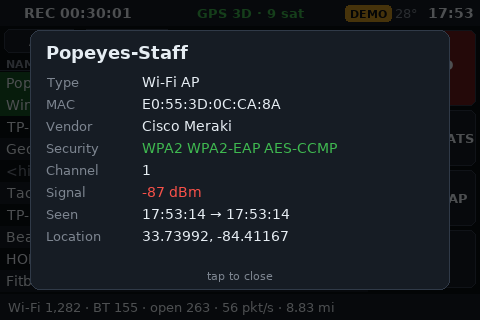
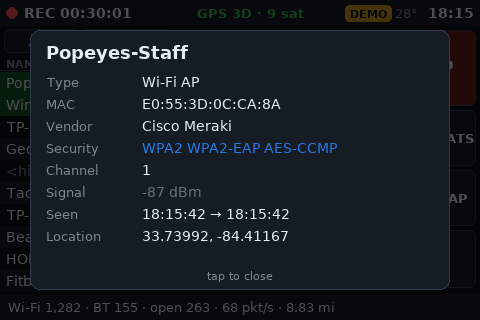
add venelation to case and make colors more colorblind-friendly

diff --git a/wardrive/views/map.py b/wardrive/views/map.py
@@ -9,7 +9,7 @@ import pygame
 
 from .. import fmt, theme
 from ..mapdata import find_map, lonlat_to_world, meters_per_pixel, world_to_lonlat
-from ..maprender import DotLayer, MapRenderer, Viewport
+from ..maprender import MARKER_LEGEND, DotLayer, MapRenderer, Viewport, draw_marker
 from ..touch import TouchEvent
 from ..widgets import SLOP, Button
 from . import CONTENT, View
@@ -56,7 +56,10 @@ class MapView(View):
             Button((right, AREA.y + 6 + BTN + 6, BTN, BTN), "−", lambda: self.zoom_by(-1), size=22),
             Button((right, AREA.y + 6 + 2 * (BTN + 6), BTN, BTN), "◎", self.recenter, size=18,
                    active=lambda: self.follow),
+            Button((right, AREA.y + 6 + 3 * (BTN + 6), BTN, 28), "KEY", self.toggle_key, size=11,
+                   active=lambda: self.show_key),
         ]
+        self.show_key = False
 
     # --- modes -------------------------------------------------------------------
 
@@ -66,6 +69,9 @@ class MapView(View):
         self.follow = False
         self._centered_once = False
         self._start_load()
+
+    def toggle_key(self) -> None:
+        self.show_key = not self.show_key
 
     def toggle_mode(self) -> None:
         if self.mode == "live":
@@ -207,14 +213,7 @@ class MapView(View):
         sx, sy = self.vp.to_screen(*lonlat_to_world(g.lon, g.lat))
         center = (int(sx), int(sy))
         if g.has_fix:
-            if g.speed > 1:
-                a = math.radians(g.track)
-                tip = (sx + 13 * math.sin(a), sy - 13 * math.cos(a))
-                left = (sx + 6 * math.sin(a - 2.4), sy - 6 * math.cos(a - 2.4))
-                right = (sx + 6 * math.sin(a + 2.4), sy - 6 * math.cos(a + 2.4))
-                pygame.draw.polygon(surf, theme.BLUE, [tip, left, right])
-            pygame.draw.circle(surf, (255, 255, 255), center, 7)
-            pygame.draw.circle(surf, theme.BLUE, center, 5)
+            draw_position(surf, center, g.track if g.speed > 1 else None)
         else:
             pygame.draw.circle(surf, theme.DIM, center, 6, 2)
 
@@ -243,7 +242,40 @@ class MapView(View):
         theme.blit_text(surf, label, (x0, y0 - 3), 10, theme.TEXT, anchor="bottomleft")
         if self.map is not None:
             theme.blit_text(surf, self.map.attribution, (AREA.right - 4, AREA.bottom - 2), 9, theme.DIM, anchor="bottomright")
-        theme.blit_text(surf, f"z{self.vp.zoom}", (AREA.right - BTN - 6 + BTN // 2, AREA.y + 6 + 3 * (BTN + 6) + 2), 10, theme.DIM, anchor="midtop")
+        theme.blit_text(surf, f"z{self.vp.zoom}", (AREA.right - BTN - 6 + BTN // 2, AREA.y + 6 + 3 * (BTN + 6) + 32), 10, theme.DIM, anchor="midtop")
+        if self.show_key:
+            self._draw_key(surf)
+
+    def _draw_key(self, surf: pygame.Surface) -> None:
+        rows = [*MARKER_LEGEND, ("YOU", "You")]
+        box = pygame.Rect(AREA.x + 6, 0, 104, 10 + 17 * len(rows))
+        box.bottom = AREA.bottom - 22
+        pygame.draw.rect(surf, (0, 0, 0), box, border_radius=6)
+        pygame.draw.rect(surf, theme.BORDER, box, 1, border_radius=6)
+        for i, (kind, label) in enumerate(rows):
+            cy = box.y + 13 + 17 * i
+            if kind == "YOU":
+                draw_position(surf, (box.x + 14, cy), None, small=True)
+            else:
+                draw_marker(surf, kind, (box.x + 14, cy), 5)
+            theme.blit_text(surf, label, (box.x + 28, cy), 12, theme.TEXT, anchor="midleft")
+
+
+def draw_position(surf: pygame.Surface, center: tuple[int, int], heading: float | None, small: bool = False) -> None:
+    """Your position: a white and black target, with a heading arrow when moving."""
+    x, y = center
+    if heading is not None:
+        a = math.radians(heading)
+        tip = (x + 15 * math.sin(a), y - 15 * math.cos(a))
+        left = (x + 7 * math.sin(a - 2.5), y - 7 * math.cos(a - 2.5))
+        right = (x + 7 * math.sin(a + 2.5), y - 7 * math.cos(a + 2.5))
+        pygame.draw.polygon(surf, (0, 0, 0), [tip, left, right])
+        pygame.draw.polygon(surf, (255, 255, 255), [tip, left, right], 2)
+    r = 6 if small else 8
+    pygame.draw.circle(surf, (0, 0, 0), center, r + 1)
+    pygame.draw.circle(surf, (255, 255, 255), center, r)
+    pygame.draw.circle(surf, (0, 0, 0), center, r - 3)
+    pygame.draw.circle(surf, (255, 255, 255), center, max(1, r - 6))
 
 
 _NICE_DISTANCES = [10, 20, 50, 100, 200, 500, 1000, 2000, 5000, 10000, 20000, 50000, 100000]

diff --git a/case/scripts/fusion_build.py b/case/scripts/fusion_build.py
@@ -204,6 +204,10 @@ PARAMS = [
     ("stylus_tube_l", "22 mm", "mm", "tube length back from the bezel front face"),
     ("stylus_x", "-(stylus_bore / 2 + stylus_wall + 0.8 mm)", "mm", "tube centre, case x: just outside the left wall, 0.8mm clear"),
     ("stylus_y", "case_out_w - 10 mm", "mm", "tube centre, case y: top-left, below the corner ear"),
+    ("vent_w", "3 mm", "mm", "vent slot width (vertical slots: bridges only this when printing)"),
+    ("vent_rib", "3 mm", "mm", "minimum solid rib between slots and around any existing opening"),
+    ("vent_band", "2 mm", "mm", "solid band kept above the floor and below the rim"),
+    ("vent_corner", "8 mm", "mm", "solid wall kept at each corner (ears carry the bezel screws)"),
 ]
 
 HELPERS = r'''
@@ -483,8 +487,60 @@ sk=newsk()
 for kx in (kxb-P('kn_sx1'), kxb-P('kn_sx2')):
     for yk in (kyc-ksy, kyc+ksy): circ(sk,kx,yk,P('m3_tap'))
 cut(N,sk,0,P('case_tap_d'))
+# ---- Ventilation: vertical slots through the walls at the height of the hot gap
+# between the Pi and the LCD. Vertical so each slot only bridges its own width when
+# the case prints back-down. Enforced: ribs >= vent_rib, solid bands >= vent_band
+# at floor and rim, >= vent_corner at corners, >= vent_rib from every opening.
+# Right wall skipped (USB2 stack + ethernet jack sit against it); floor untouched
+# (it carries the mount load through the knuckle).
+vw=P('vent_w'); vrb=P('vent_rib'); vbd=P('vent_band'); vcn=P('vent_corner'); vpitch=vw+vrb
+def vslots(lo,hi):
+    n=int(math.floor((hi-lo+vrb)/vpitch))
+    if n<=0: return []
+    span=n*vw+(n-1)*vrb; s0=lo+(hi-lo-span)/2.0+vw/2.0
+    return [s0+k*vpitch for k in range(n)]
+def vfree(lo,hi,blocked):
+    segs=[(lo,hi)]
+    for b0,b1 in sorted(blocked):
+        nxt=[]
+        for s0,s1 in segs:
+            if b1<=s0 or b0>=s1: nxt.append((s0,s1)); continue
+            if b0>s0: nxt.append((s0,b0))
+            if b1<s1: nxt.append((b1,s1))
+        segs=nxt
+    return [(a,b) for a,b in segs if b-a>=vw]
+vzlo=FT+vbd; vzhi=RH-vbd
+if vzhi-vzlo < 8: raise RuntimeError('vent slots would be too short')
+vents={'top':0,'bottom':0,'left':0}; varea=0.0
+# top wall (GPIO edge): only the corners to avoid
+for a,b in vfree(vcn,OL-vcn,[]):
+    for sc in vslots(a,b):
+        sk=newsk(); rect(sk,sc-vw/2,OW-W-1,sc+vw/2,OW+1); cut(N,sk,vzlo,vzhi-vzlo)
+        vents['top']+=1; varea+=vw*(vzhi-vzlo)
+# bottom wall (power edge): clear of the USB-C hole, both flex-tab notches and the hood
+ucx=PX+P('usbc_ctr'); ucw=max(P('usbc_w'),P('usbc_plug_w'))+2*FP
+hd0=PX+P('adp_a')-P('adp_clr')-W; hd1=PX+P('adp_b')+P('adp_clr')+W
+vblk=[(ucx-ucw/2-vrb,ucx+ucw/2+vrb),(hd0-vrb,hd1+vrb)]
+for key in ('btn_pwr_ctr','btn_bkl_ctr'):
+    bc_,tc_,n0_,n1_=tabgeom(key)
+    vblk.append((tc_-P('tab_w')/2-P('tab_slit')-vrb, tc_+P('tab_w')/2+P('tab_slit')+vrb))
+for a,b in vfree(vcn,OL-vcn,vblk):
+    for sc in vslots(a,b):
+        sk=newsk(); rect(sk,sc-vw/2,-1,sc+vw/2,W+1); cut(N,sk,vzlo,vzhi-vzlo)
+        vents['bottom']+=1; varea+=vw*(vzhi-vzlo)
+# left wall: clear of the LCD power notch and the stylus tube outside; above the SD slit
+vlcy=PY+P('lcd_usbc_ctr'); vlw=P('lcd_usbc_plug_w')+2*FP
+vsod=P('stylus_bore')+2*P('stylus_wall'); vsyc=P('stylus_y')
+vblk=[(vlcy-vlw/2-vrb,vlcy+vlw/2+vrb),(vsyc-vsod/2-vrb,vsyc+vsod/2+vrb)]
+vzlo_l=max(vzlo,(PCT-PT)+0.6+vbd)
+for a,b in vfree(vcn,OW-vcn,vblk):
+    for sc in vslots(a,b):
+        sk=newsk(); rect(sk,-1,sc-vw/2,W+1,sc+vw/2); cut(N,sk,vzlo_l,vzhi-vzlo_l)
+        vents['left']+=1; varea+=vw*(vzhi-vzlo_l)
+if sum(vents.values())==0: raise RuntimeError('no vent slots placed')
 place(N,0.0,0.0)
 r=report(N); r['ear_nut_d']=round(P('ear_nut_d'),2)
+r['vent_slots']=vents; r['vent_open_mm2']=round(varea)
 return r
 '''
 

diff --git a/wardrive/maprender.py b/wardrive/maprender.py
@@ -409,6 +409,42 @@ def _longest_visible_segment(pts: np.ndarray, w: int, h: int, margin: int = 6):
 # --- network dots ------------------------------------------------------------------------
 
 
+# Each security type has a shape as well as a color, so dots can be told apart without
+# relying on color vision.
+MARKER_SHAPES = {"OPEN": "triangle", "WEP": "diamond", "WPA": "diamond", "WPA2": "circle", "WPA3": "square", "BT": "plus"}
+MARKER_LEGEND = [("OPEN", "Open"), ("WEP", "WEP / WPA"), ("WPA2", "WPA2"), ("WPA3", "WPA3"), ("BT", "Bluetooth")]
+OUTLINE = (0, 0, 0)
+
+
+def draw_marker(surf: pygame.Surface, crypt: str, center: tuple[int, int], r: int) -> None:
+    """One network marker: shape and color by security type, outlined in black."""
+    color = theme.CRYPT_COLORS.get(crypt, theme.TEXT)
+    shape = MARKER_SHAPES.get(crypt, "circle")
+    x, y = center
+    if shape == "circle":
+        pygame.draw.circle(surf, OUTLINE, center, r + 1)
+        pygame.draw.circle(surf, color, center, r)
+    elif shape == "square":
+        k = r - 1
+        pygame.draw.rect(surf, OUTLINE, (x - k - 1, y - k - 1, 2 * k + 3, 2 * k + 3))
+        pygame.draw.rect(surf, color, (x - k, y - k, 2 * k + 1, 2 * k + 1))
+    elif shape == "diamond":
+        k = r + 1
+        pygame.draw.polygon(surf, OUTLINE, [(x, y - k - 1), (x + k + 1, y), (x, y + k + 1), (x - k - 1, y)])
+        pygame.draw.polygon(surf, color, [(x, y - k), (x + k, y), (x, y + k), (x - k, y)])
+    elif shape == "triangle":
+        k = r
+        pygame.draw.polygon(surf, OUTLINE, [(x, y - k - 2), (x + k + 2, y + k + 1), (x - k - 2, y + k + 1)])
+        pygame.draw.polygon(surf, color, [(x, y - k), (x + k, y + k), (x - k, y + k)])
+    else:  # plus
+        w = 3 if r >= 5 else 2
+        arm = r + 1
+        for rect in ((x - arm, y - w // 2, 2 * arm + 1, w), (x - w // 2, y - arm, w, 2 * arm + 1)):
+            pygame.draw.rect(surf, OUTLINE, pygame.Rect(rect).inflate(2, 2))
+        for rect in ((x - arm, y - w // 2, 2 * arm + 1, w), (x - w // 2, y - arm, w, 2 * arm + 1)):
+            pygame.draw.rect(surf, color, rect)
+
+
 class DotLayer:
     """Screen positions of devices for drawing and tap hit-testing."""
 
@@ -440,15 +476,11 @@ class DotLayer:
         vis = np.nonzero((sx >= -4) & (sx <= vp.w + 4) & (sy >= -4) & (sy <= vp.h + 4))[0]
         self._screen = np.column_stack([sx, sy])
         self._visible_idx = vis
-        radius = 3 if vp.zoom < 16 else 4
+        radius = 4 if vp.zoom < 16 else 5
         # Draw open networks last so they sit on top.
         order = sorted(vis.tolist(), key=lambda i: self.devices[i].crypt == "OPEN")
         for i in order:
-            d = self.devices[i]
-            color = theme.CRYPT_COLORS.get(d.crypt, theme.TEXT)
-            center = (int(sx[i]), int(sy[i]))
-            pygame.draw.circle(surf, (0, 0, 0), center, radius + 1)
-            pygame.draw.circle(surf, color, center, radius)
+            draw_marker(surf, self.devices[i].crypt, (int(sx[i]), int(sy[i])), radius)
         return len(vis)
 
     def nearest(self, pos: tuple[int, int], max_px: float = 14):

diff --git a/wardrive/theme.py b/wardrive/theme.py
@@ -19,14 +19,26 @@ DARK_RED = (110, 28, 28)
 DARK_GREEN = (22, 84, 38)
 AMBER_DARK = (92, 66, 12)
 
+# Network security colors. Chosen to stay distinct with red-green (deutan, protan) and
+# blue-yellow (tritan) color vision deficiency, checked by simulation, and never used alone:
+# the map also gives each a shape (maprender.MARKER_SHAPES) and lists print the label.
+SEC_OPEN = (255, 221, 0)  # yellow
+SEC_WEAK = (220, 90, 30)  # orange: WEP and WPA
+SEC_WPA2 = (40, 120, 230)  # blue
+SEC_WPA3 = (235, 235, 235)  # white
+SEC_BT = (230, 110, 190)  # pink
+
 CRYPT_COLORS = {
-    "OPEN": RED,
-    "WEP": AMBER,
-    "WPA": AMBER,
-    "WPA2": GREEN,
-    "WPA3": BLUE,
-    "BT": PURPLE,
+    "OPEN": SEC_OPEN,
+    "WEP": SEC_WEAK,
+    "WPA": SEC_WEAK,
+    "WPA2": SEC_WPA2,
+    "WPA3": SEC_WPA3,
+    "BT": SEC_BT,
 }
+
+# Signal strength by brightness rather than hue: strong, medium, weak.
+SIGNAL_STRONG, SIGNAL_MEDIUM, SIGNAL_WEAK = TEXT, (170, 177, 187), (105, 112, 122)
 
 LEVEL_COLORS = {"info": TEXT, "good": GREEN, "warn": AMBER, "error": RED}
 

diff --git a/wardrive/app.py b/wardrive/app.py
@@ -42,8 +42,8 @@ class SummaryModal(Modal):
         return [
             ("Duration", fmt.duration(s.duration), theme.TEXT),
             ("Wi-Fi APs", fmt.count(s.wifi), theme.TEXT),
-            ("Open", fmt.count(s.open), theme.RED),
-            ("Bluetooth", fmt.count(s.bt), theme.PURPLE),
+            ("Open", fmt.count(s.open), theme.SEC_OPEN),
+            ("Bluetooth", fmt.count(s.bt), theme.SEC_BT),
             ("WiGLE log", files, theme.DIM),
             ("", "Upload later from MENU → UPLOAD", theme.DIM),
         ]
@@ -382,8 +382,10 @@ class App:
         map_view.show_session(None, "All sessions")
         map_view.loader.wait()
         self.draw(time.monotonic())  # first frame loads the dots and centres on them
-        map_view.vp.zoom = 15
+        map_view.vp.zoom = 16
+        map_view.show_key = True
         snap("map-saved")
+        map_view.show_key = False
         self.show("nets")
         rows = self.views["nets"].rows()
         if rows:

diff --git a/wardrive/views/stats.py b/wardrive/views/stats.py
@@ -10,11 +10,11 @@ from . import CONTENT, View
 
 TILES = [
     ("wifi", "WI-FI", theme.TEXT),
-    ("bt", "BLUETOOTH", theme.PURPLE),
-    ("OPEN", "OPEN", theme.RED),
-    ("WEP", "WEP", theme.AMBER),
-    ("WPA2", "WPA/WPA2", theme.GREEN),
-    ("WPA3", "WPA3", theme.BLUE),
+    ("bt", "BLUETOOTH", theme.SEC_BT),
+    ("OPEN", "OPEN", theme.SEC_OPEN),
+    ("WEP", "WEP", theme.SEC_WEAK),
+    ("WPA2", "WPA/WPA2", theme.SEC_WPA2),
+    ("WPA3", "WPA3", theme.SEC_WPA3),
 ]
 
 

diff --git a/wardrive/views/devicelist.py b/wardrive/views/devicelist.py
@@ -26,10 +26,10 @@ def signal_color(dbm: int):
     if dbm == 0:
         return theme.DIM
     if dbm >= -60:
-        return theme.GREEN
+        return theme.SIGNAL_STRONG
     if dbm >= -75:
-        return theme.AMBER
-    return theme.RED
+        return theme.SIGNAL_MEDIUM
+    return theme.SIGNAL_WEAK
 
 
 class DeviceList:

diff --git a/case/README.md b/case/README.md
@@ -56,7 +56,7 @@ Reference photos of the Pi + screen stack the case was measured from are in
 
 | Body | Qty | Size (mm) | Print orientation | Notes |
 |---|---|---|---|---|
-| `01_case_back` | 1 | 108.6 × 79.6 × 25.4 | back face down | Pi pocket, port openings, open back, 4 corner ears, adapter hood |
+| `01_case_back` | 1 | 108.6 × 79.6 × 25.4 | back face down | Pi pocket, port openings, open back, 23 vent slots, 4 corner ears, adapter hood |
 | `02_case_bezel` | 1 | 111.3 × 79.6 × 22.0 | **flip: front face down** | 9.5 thick; flex-button tabs hang 4.1 below it; stylus tube at top-left reaches 22 back from the face |
 | `03_tilt_plate` | **2** | 36 × 44 × 7.8 | teeth up | One on the case, one on the base |
 | `04_arm` | 1 | 246.2 × 40 × 15.8 | **lying flat, rotated 45° on the bed** | Toothed hub at both ends. Too long to lie straight on a 225 mm bed |
@@ -193,6 +193,30 @@ enough to flex safely in PLA. BKL is only 3.4 mm from the HDMI adapter, so its t
 shifted 0.74 mm away from the hood while its wedge stays on the button. The build
 script refuses to run if a wedge can't cover a button's centre by at least ±0.75 mm.
 
+### Ventilation
+
+The Pi's processor faces the screen, so it sits in the 16 mm gap between the Pi and the
+LCD — the hot pocket. The open back only vents the underside of the Pi's circuit board,
+which blocks that air from the processor, so the vents go through the **walls, at the
+height of that gap**: 23 vertical slots, 3 mm wide, about 1030 mm² of opening.
+
+| Wall | Slots | Notes |
+|---|---|---|
+| Top (GPIO edge) | 13 | Mounted, this edge faces up: the exhaust |
+| Bottom (power edge) | 6 | Right of the adapter hood: the intake. The rest of that wall is the power jack, button notches and hood |
+| Left | 4 | Between the LCD power notch and the stylus tube, above the SD slit |
+| Right | 0 | The USB2 stack and ethernet jack sit against it inside; the USB3 notch is already open |
+
+With the GPIO edge up and the power edge down, hot air rises through the gap and out the
+top — a chimney.
+
+**Structure is protected by rules the build enforces:** at least 3 mm of solid rib
+between slots and around every existing opening, a 2 mm solid band along the floor and the
+rim (the bezel clamps down on the rim), 8 mm of solid wall at each corner (the ears carry
+the bezel screws), and **no slots in the floor**, which carries the whole mount's weight
+through the knuckle. Slots are vertical so each one only bridges its 3 mm width when the
+case back prints.
+
 ### Stylus holder
 
 A round tube just outside the bezel's top-left edge, below the corner ear, with its axis
@@ -268,6 +292,7 @@ The most useful parameters in its `PARAMS` table:
 |---|---|---|---|
 | `arm_h` | 206.2 mm | Arm length, pivot to pivot. Every 10 mm added raises the cord exit by 10 mm | arm only |
 | `stylus_bore` | 5.2 mm | Stylus tube bore. Smaller = firmer grip on the 4.88 mm barrel | bezel only |
+| `vent_w` / `vent_rib` | 3 mm / 3 mm | Vent slot width and the solid rib between slots. Slot count adjusts automatically | case back only |
 | `nub_gap` | 0.3 mm | Flex-button wedge to button. Lower it if a button doesn't click, raise it if one is held down | bezel only |
 | `adp_hood` | 1 | 0 = open notch instead of a hood (the adapter then pokes ~5 mm out of the case) | case back, bezel |
 | `usb2_open` | 0 | 1 = also open the USB2 port stack | case back |

diff --git a/README.md b/README.md
@@ -103,7 +103,7 @@ also rotate everything drawn on the screen, and the app already flips its own fr
 | **NETS** | Live list of Wi-Fi APs and Bluetooth devices. Filter ALL/WIFI/BT; sort newest or strongest. New devices flash green. Tap a row for details. Drag to scroll. |
 | **STATS** | Wi-Fi, BT, and per-security counts, duration, distance, packets/s, Kismet RAM, free disk, capture source health. |
 | **GPS** | Fix type, satellites, HDOP, lat/lon, altitude, speed, heading, GPS time, clock source. |
-| **MAP** | Offline street map (see [Install an offline map](#5-install-an-offline-map-optional)). **LIVE** follows your GPS position and plots networks as they're located; **SAVED** plots a finished session or all of them. Dots are colored by security, with open networks on top. Drag to pan, **+**/**−** to zoom, **◎** to re-center and follow. Tap a dot for details. |
+| **MAP** | Offline street map (see [Install an offline map](#5-install-an-offline-map-optional)). **LIVE** follows your GPS position and plots networks as they're located; **SAVED** plots a finished session or all of them. Each dot's shape and color show its security: ▲ yellow open, ◆ orange WEP/WPA, ● blue WPA2, ■ white WPA3, ✚ pink Bluetooth; **KEY** shows the legend. The colors are chosen to stay distinct with color blindness, and the shapes work without color at all. Drag to pan, **+**/**−** to zoom, **◎** to re-center and follow. Tap a dot for details. |
 | **MENU** | SESSIONS, UPLOAD, CALIBRATE touch, LOG, [DEMO](#demo-mode) (hold 2 s), REBOOT and SHUTDOWN (hold 2 s), IP address, internet, power, temp, disk. |
 | **LOG** | App and Kismet events (source errors, GPS fix gained or lost, start/stop). Tap for full text. |
 | **SESSIONS** | Finished capture sessions (date, duration, Wi-Fi/BT/open counts, whether archived), plus "All sessions" with each network listed once. Tap one to browse every network it recorded: WIFI/BT filter, sort by strongest signal, name or newest, and tap for details (security and WPS, frequency, strongest signal, packets, sessions seen in, location). **MAP** shows them on the map. |

diff --git a/case/docs/PRINTING.md b/case/docs/PRINTING.md
@@ -71,6 +71,9 @@ a brim. Rotate it 45° in the slicer; diagonally it needs only 212 mm.
 **The stylus tube** on the bezel prints as a plain vertical cylinder rising from the bed
 alongside the button tabs, so it needs nothing special.
 
+**The case back's 23 vent slots** are vertical, so each one only bridges its 3 mm width.
+They need no supports. If a slot top sags slightly, it doesn't matter structurally.
+
 ## Suggested order
 
 1. **Both tilt plates first.** They're small, and two of them mesh face to face, so you
